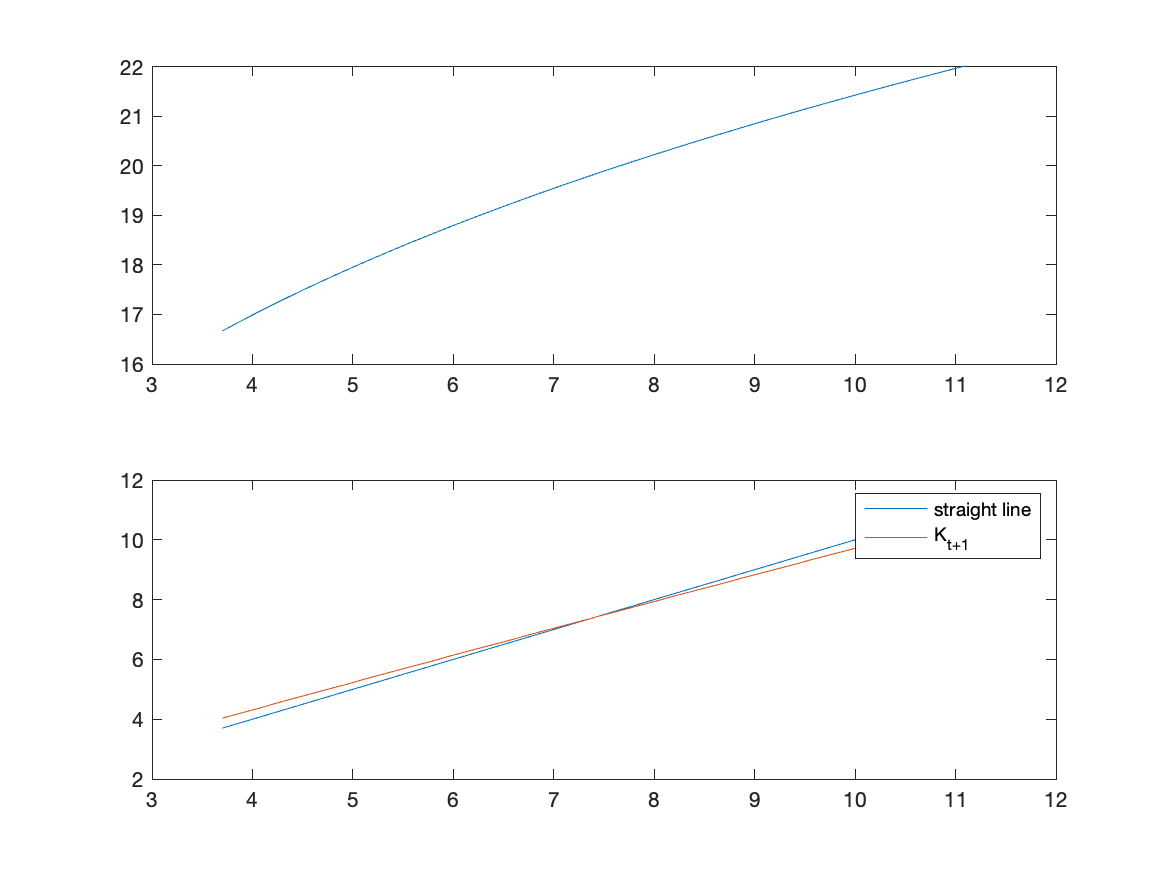
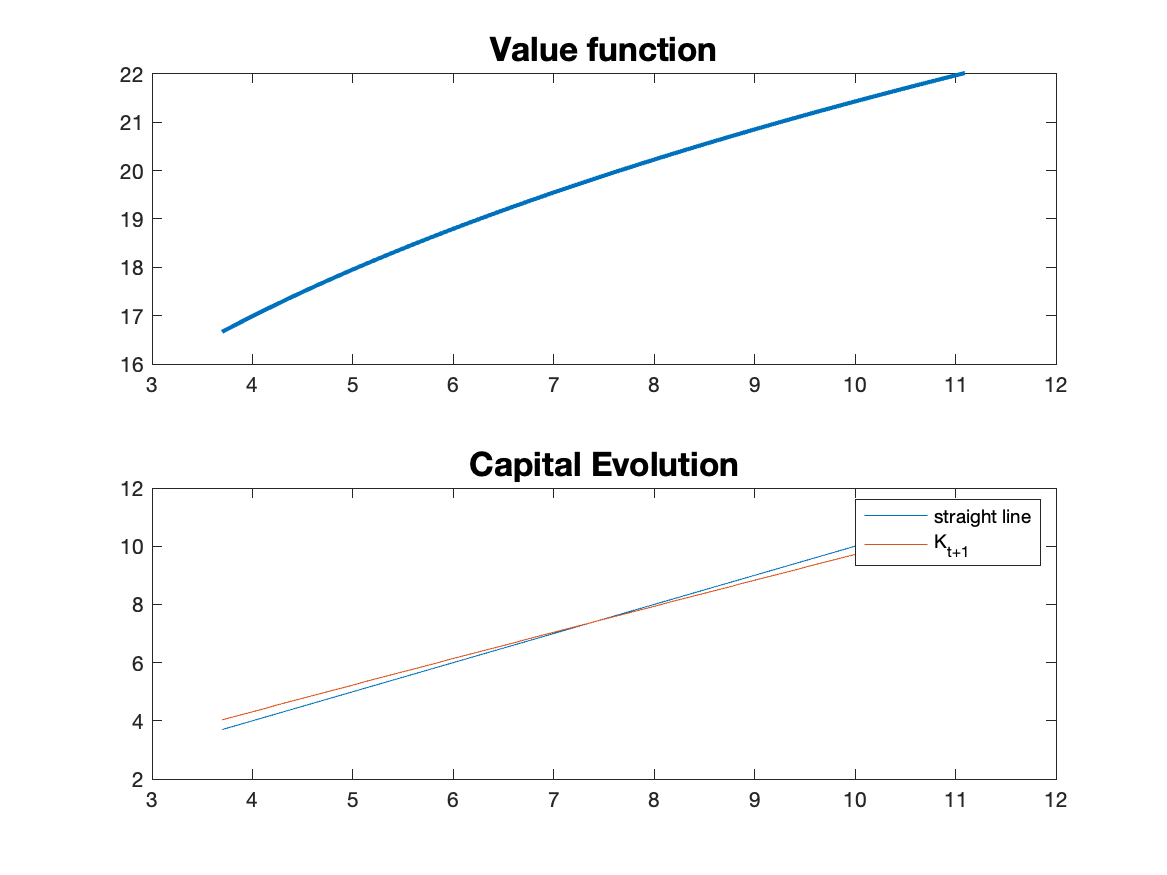
update figs

diff --git a/HW3/question_2_e.m b/HW3/question_2_e.m
@@ -54,11 +54,12 @@ end
 %%
 subplot(2,1,1)
 %Plot the final value function
-plot(k0,vlast)
-
+plot(k0,vlast, 'lineWidth',2)
+title('Value function','Fontsize',16)
 subplot(2,1,2)
 plot(k0,k0)
 hold on
 plot(k0,kt_plus_one_vector)
+title('Capital Evolution','Fontsize',16)
 legend('straight line','K_{t+1}')
-saveas(gcf,'pics/HW3_Q2_figure_e.png')
+saveas(gcf,'pics/HW3_Q2_e_figure.png')

diff --git a/HW3/HW3_matlab.m b/HW3/HW3_matlab.m
@@ -52,11 +52,12 @@ end
 %%
 subplot(2,1,1)
 %Plot the final value function
-plot(k0,vlast)
-
+plot(k0,vlast, 'lineWidth',2)
+title('Value function','Fontsize',16)
 subplot(2,1,2)
 plot(k0,k0)
 hold on
 plot(k0,kt_plus_one_vector)
+title('Capital Evolution','Fontsize',16)
 legend('straight line','K_{t+1}')
 saveas(gcf,'pics/HW3_Q1_figure.png')

diff --git a/HW3/question_2_c.m b/HW3/question_2_c.m
@@ -53,11 +53,12 @@ end
 %%
 subplot(2,1,1)
 %Plot the final value function
-plot(k0,vlast)
-
+plot(k0,vlast, 'lineWidth',2)
+title('Value function','Fontsize',16)
 subplot(2,1,2)
 plot(k0,k0)
 hold on
 plot(k0,kt_plus_one_vector)
+title('Capital Evolution','Fontsize',16)
 legend('straight line','K_{t+1}')
 saveas(gcf,'pics/HW3_Q2_figure.png')
